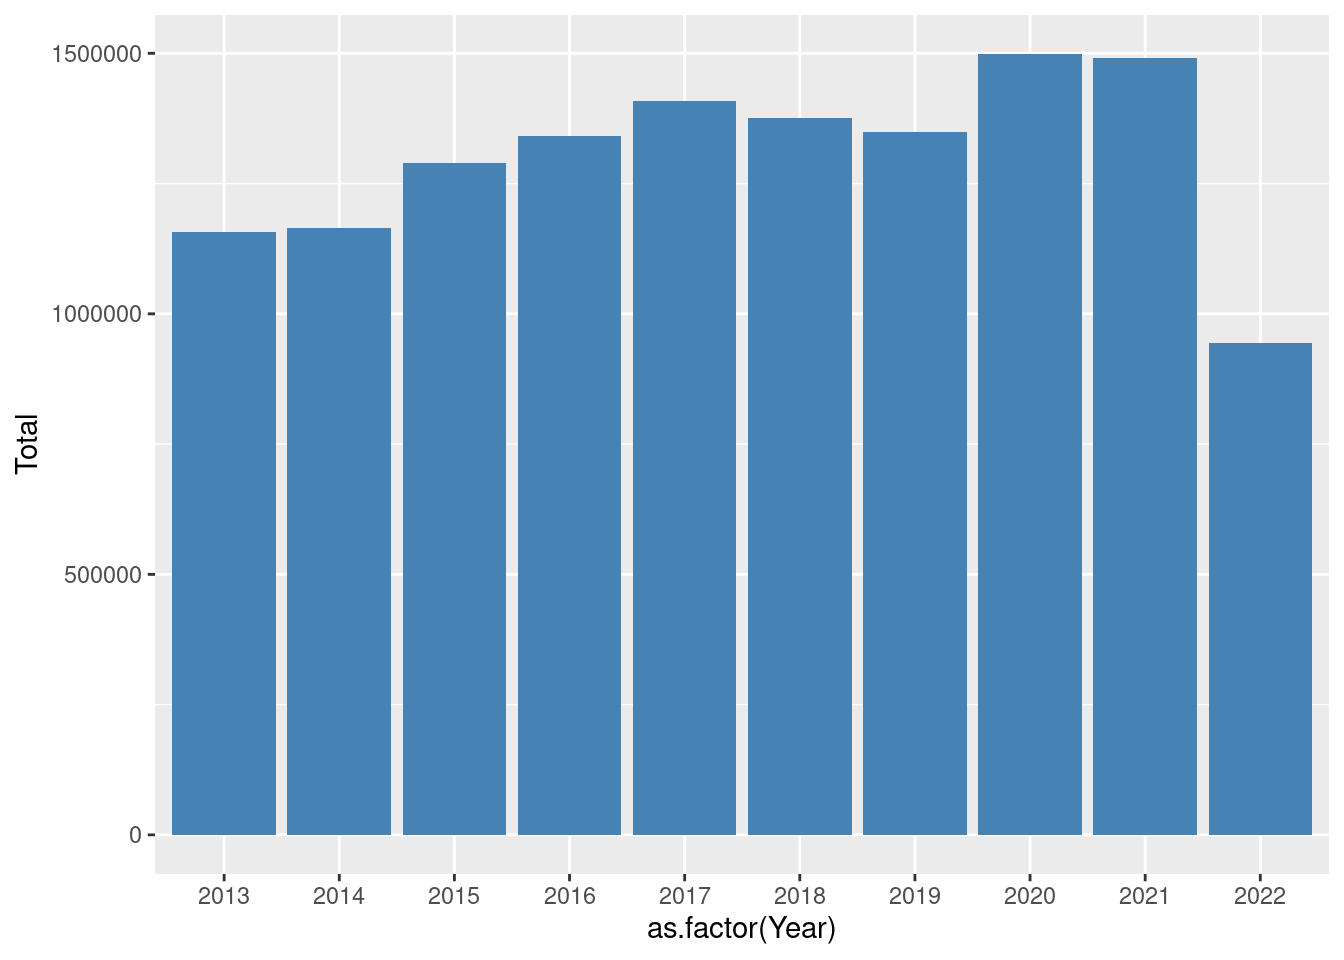
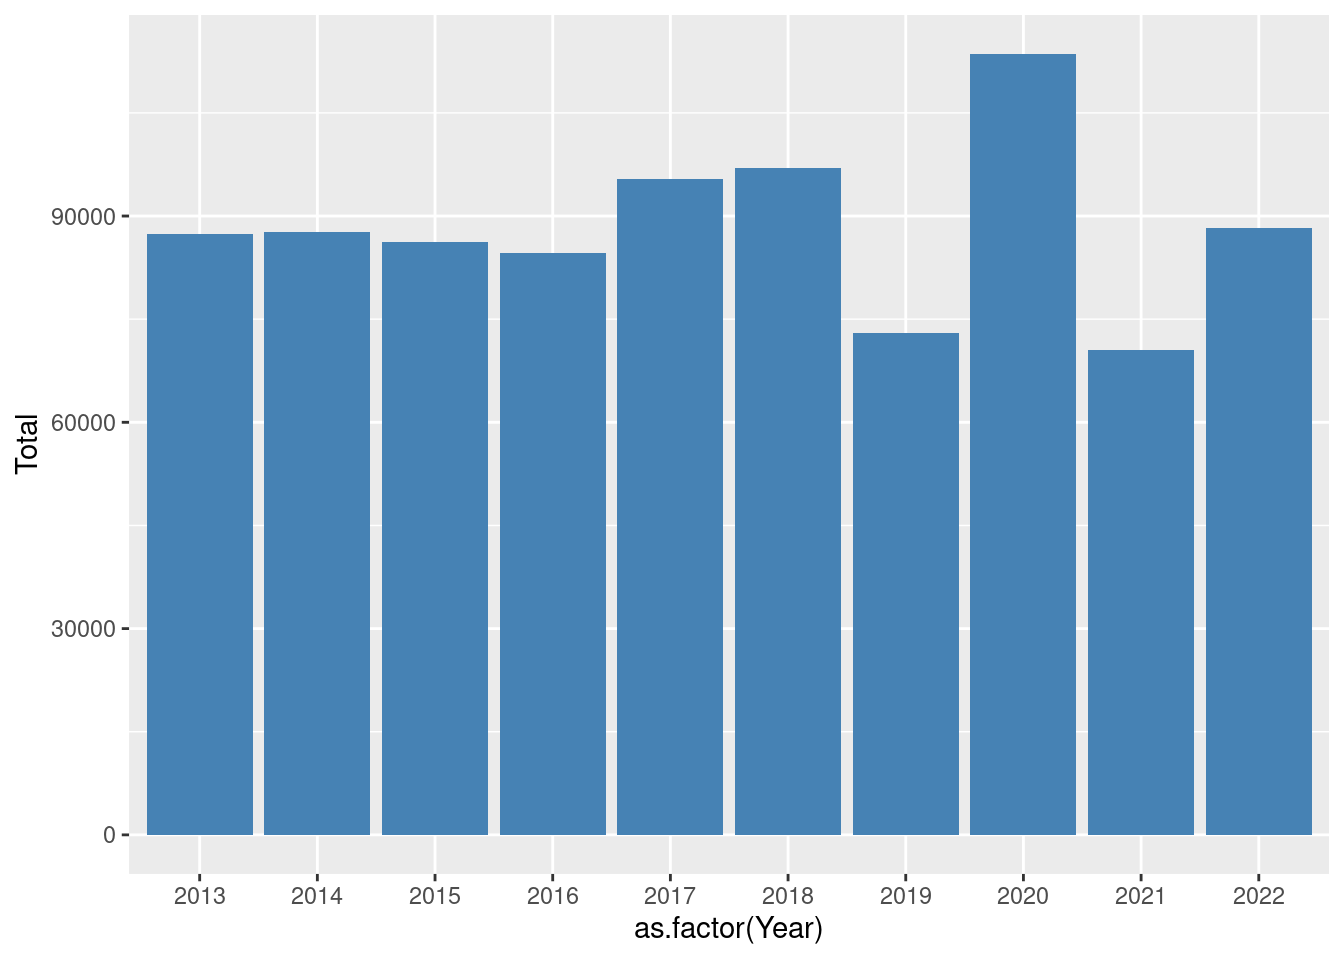
update

diff --git a/docs/ExploratoryDataAnalysis.html b/docs/ExploratoryDataAnalysis.html
@@ -259,7 +259,12 @@ code span.wa { color: #60a0b0; font-weight: bold; font-style: italic; } /* Warni
 <span id="cb2-5"><a href="#cb2-5" aria-hidden="true" tabindex="-1"></a></span>
 <span id="cb2-6"><a href="#cb2-6" aria-hidden="true" tabindex="-1"></a>monthly_usd_to_try <span class="ot">&lt;-</span> <span class="fu">read_excel</span>(<span class="st">"data/monthly_usd_to_try.xls"</span>)</span>
 <span id="cb2-7"><a href="#cb2-7" aria-hidden="true" tabindex="-1"></a>monthly_usd_to_try<span class="sc">$</span>month <span class="ot">&lt;-</span> <span class="fu">as.Date</span>(monthly_usd_to_try<span class="sc">$</span>month)</span>
-<span id="cb2-8"><a href="#cb2-8" aria-hidden="true" tabindex="-1"></a>monthly_usd_to_try<span class="sc">$</span>month <span class="ot">&lt;-</span> <span class="fu">format</span>(monthly_usd_to_try<span class="sc">$</span>month,<span class="st">"%Y-%b-%d"</span>)</span></code><button title="Copy to Clipboard" class="code-copy-button"><i class="bi"></i></button></pre></div>
+<span id="cb2-8"><a href="#cb2-8" aria-hidden="true" tabindex="-1"></a>monthly_usd_to_try<span class="sc">$</span>month <span class="ot">&lt;-</span> <span class="fu">format</span>(monthly_usd_to_try<span class="sc">$</span>month,<span class="st">"%Y-%b-%d"</span>)</span>
+<span id="cb2-9"><a href="#cb2-9" aria-hidden="true" tabindex="-1"></a></span>
+<span id="cb2-10"><a href="#cb2-10" aria-hidden="true" tabindex="-1"></a>PATH <span class="ot">&lt;-</span> <span class="st">"data/House Sales by Provinces.xls"</span></span>
+<span id="cb2-11"><a href="#cb2-11" aria-hidden="true" tabindex="-1"></a>house_sales_by_provinces <span class="ot">&lt;-</span> <span class="fu">read_excel</span>(PATH, <span class="at">range =</span> <span class="fu">cell_rows</span>(<span class="dv">14</span><span class="sc">:</span><span class="dv">129</span>), <span class="at">col_names =</span> <span class="fu">names</span>(<span class="fu">read_excel</span>(PATH, <span class="at">skip =</span> <span class="dv">2</span>))) </span>
+<span id="cb2-12"><a href="#cb2-12" aria-hidden="true" tabindex="-1"></a></span>
+<span id="cb2-13"><a href="#cb2-13" aria-hidden="true" tabindex="-1"></a>total_sales_by_year <span class="ot">&lt;-</span> <span class="fu">aggregate</span>(house_sales_by_provinces[<span class="dv">3</span>], house_sales_by_provinces[<span class="dv">1</span>], <span class="at">FUN=</span>sum)</span></code><button title="Copy to Clipboard" class="code-copy-button"><i class="bi"></i></button></pre></div>
 </div>
 <div class="cell">
 <div class="sourceCode cell-code" id="cb3"><pre class="sourceCode r code-with-copy"><code class="sourceCode r"><span id="cb3-1"><a href="#cb3-1" aria-hidden="true" tabindex="-1"></a><span class="fu">ggplot</span>(House_sales_to_foreigners_year, <span class="fu">aes</span>(Year)) <span class="sc">+</span> </span>
@@ -317,30 +322,25 @@ code span.wa { color: #60a0b0; font-weight: bold; font-style: italic; } /* Warni
 </div>
 </div>
 <div class="cell">
-<div class="sourceCode cell-code" id="cb15"><pre class="sourceCode r code-with-copy"><code class="sourceCode r"><span id="cb15-1"><a href="#cb15-1" aria-hidden="true" tabindex="-1"></a>PATH <span class="ot">&lt;-</span> <span class="st">"data/House Sales by Provinces.xls"</span></span>
-<span id="cb15-2"><a href="#cb15-2" aria-hidden="true" tabindex="-1"></a></span>
-<span id="cb15-3"><a href="#cb15-3" aria-hidden="true" tabindex="-1"></a>house_sales_by_provinces <span class="ot">&lt;-</span> <span class="fu">read_excel</span>(PATH, <span class="at">range =</span> <span class="fu">cell_rows</span>(<span class="dv">14</span><span class="sc">:</span><span class="dv">129</span>), <span class="at">col_names =</span> <span class="fu">names</span>(<span class="fu">read_excel</span>(PATH, <span class="at">skip =</span> <span class="dv">2</span>))) </span>
-<span id="cb15-4"><a href="#cb15-4" aria-hidden="true" tabindex="-1"></a></span>
-<span id="cb15-5"><a href="#cb15-5" aria-hidden="true" tabindex="-1"></a>house_sales_by_provinces  <span class="ot">&lt;-</span> house_sales_by_provinces  <span class="sc">%&gt;%</span></span>
-<span id="cb15-6"><a href="#cb15-6" aria-hidden="true" tabindex="-1"></a>    <span class="fu">fill</span>(<span class="fu">colnames</span>(house_sales_by_provinces[<span class="dv">1</span>]), <span class="at">.direction =</span> <span class="st">"downup"</span>)</span>
-<span id="cb15-7"><a href="#cb15-7" aria-hidden="true" tabindex="-1"></a></span>
-<span id="cb15-8"><a href="#cb15-8" aria-hidden="true" tabindex="-1"></a><span class="co"># Creating Time Series Object</span></span>
-<span id="cb15-9"><a href="#cb15-9" aria-hidden="true" tabindex="-1"></a>total_hs_ts <span class="ot">&lt;-</span> <span class="fu">ts</span>(house_sales_by_provinces[<span class="dv">3</span>],<span class="at">start=</span><span class="fu">c</span>(<span class="dv">2013</span>,<span class="dv">1</span>),<span class="at">frequency=</span><span class="dv">12</span>)</span>
-<span id="cb15-10"><a href="#cb15-10" aria-hidden="true" tabindex="-1"></a></span>
-<span id="cb15-11"><a href="#cb15-11" aria-hidden="true" tabindex="-1"></a><span class="fu">options</span>(<span class="at">repr.plot.width=</span><span class="dv">21</span>, <span class="at">repr.plot.height=</span><span class="dv">8</span>)</span>
-<span id="cb15-12"><a href="#cb15-12" aria-hidden="true" tabindex="-1"></a><span class="fu">plot</span>(total_hs_ts)</span></code><button title="Copy to Clipboard" class="code-copy-button"><i class="bi"></i></button></pre></div>
+<div class="sourceCode cell-code" id="cb15"><pre class="sourceCode r code-with-copy"><code class="sourceCode r"><span id="cb15-1"><a href="#cb15-1" aria-hidden="true" tabindex="-1"></a>house_sales_by_provinces  <span class="ot">&lt;-</span> house_sales_by_provinces  <span class="sc">%&gt;%</span></span>
+<span id="cb15-2"><a href="#cb15-2" aria-hidden="true" tabindex="-1"></a>    <span class="fu">fill</span>(<span class="fu">colnames</span>(house_sales_by_provinces[<span class="dv">1</span>]), <span class="at">.direction =</span> <span class="st">"downup"</span>)</span>
+<span id="cb15-3"><a href="#cb15-3" aria-hidden="true" tabindex="-1"></a></span>
+<span id="cb15-4"><a href="#cb15-4" aria-hidden="true" tabindex="-1"></a><span class="co"># Creating Time Series Object for House Sales by Proviences</span></span>
+<span id="cb15-5"><a href="#cb15-5" aria-hidden="true" tabindex="-1"></a>total_hs_ts <span class="ot">&lt;-</span> <span class="fu">ts</span>(house_sales_by_provinces[<span class="dv">3</span>],<span class="at">start=</span><span class="fu">c</span>(<span class="dv">2013</span>,<span class="dv">1</span>),<span class="at">frequency=</span><span class="dv">12</span>)</span>
+<span id="cb15-6"><a href="#cb15-6" aria-hidden="true" tabindex="-1"></a></span>
+<span id="cb15-7"><a href="#cb15-7" aria-hidden="true" tabindex="-1"></a><span class="fu">options</span>(<span class="at">repr.plot.width=</span><span class="dv">21</span>, <span class="at">repr.plot.height=</span><span class="dv">8</span>)</span>
+<span id="cb15-8"><a href="#cb15-8" aria-hidden="true" tabindex="-1"></a><span class="fu">plot</span>(total_hs_ts)</span></code><button title="Copy to Clipboard" class="code-copy-button"><i class="bi"></i></button></pre></div>
 <div class="cell-output-display">
 <p><img src="ExploratoryDataAnalysis_files/figure-html/unnamed-chunk-4-1.png" class="img-fluid" width="672"></p>
 </div>
 </div>
 <div class="cell">
-<div class="sourceCode cell-code" id="cb16"><pre class="sourceCode r code-with-copy"><code class="sourceCode r"><span id="cb16-1"><a href="#cb16-1" aria-hidden="true" tabindex="-1"></a>total_sales_by_year <span class="ot">&lt;-</span> <span class="fu">aggregate</span>(house_sales_by_provinces[<span class="dv">3</span>], house_sales_by_provinces[<span class="dv">1</span>], <span class="at">FUN=</span>sum)</span>
-<span id="cb16-2"><a href="#cb16-2" aria-hidden="true" tabindex="-1"></a><span class="fu">colnames</span>(total_sales_by_year) <span class="ot">&lt;-</span> <span class="fu">c</span>(<span class="st">'Year'</span>,<span class="st">'Total'</span>)</span>
-<span id="cb16-3"><a href="#cb16-3" aria-hidden="true" tabindex="-1"></a></span>
-<span id="cb16-4"><a href="#cb16-4" aria-hidden="true" tabindex="-1"></a><span class="co"># Total Sales by Year</span></span>
-<span id="cb16-5"><a href="#cb16-5" aria-hidden="true" tabindex="-1"></a><span class="fu">options</span>(<span class="at">repr.plot.width=</span><span class="dv">18</span>, <span class="at">repr.plot.height=</span><span class="dv">8</span>)</span>
-<span id="cb16-6"><a href="#cb16-6" aria-hidden="true" tabindex="-1"></a><span class="fu">ggplot</span>(<span class="at">data=</span>total_sales_by_year, <span class="fu">aes</span>(<span class="at">x=</span><span class="fu">as.factor</span>(Year), <span class="at">y=</span>Total)) <span class="sc">+</span></span>
-<span id="cb16-7"><a href="#cb16-7" aria-hidden="true" tabindex="-1"></a>    <span class="fu">geom_bar</span>(<span class="at">stat=</span><span class="st">"identity"</span>, <span class="at">fill=</span><span class="st">"steelblue"</span>)</span></code><button title="Copy to Clipboard" class="code-copy-button"><i class="bi"></i></button></pre></div>
+<div class="sourceCode cell-code" id="cb16"><pre class="sourceCode r code-with-copy"><code class="sourceCode r"><span id="cb16-1"><a href="#cb16-1" aria-hidden="true" tabindex="-1"></a><span class="fu">colnames</span>(total_sales_by_year) <span class="ot">&lt;-</span> <span class="fu">c</span>(<span class="st">'Year'</span>,<span class="st">'Total'</span>)</span>
+<span id="cb16-2"><a href="#cb16-2" aria-hidden="true" tabindex="-1"></a></span>
+<span id="cb16-3"><a href="#cb16-3" aria-hidden="true" tabindex="-1"></a><span class="co"># Total Sales by Year</span></span>
+<span id="cb16-4"><a href="#cb16-4" aria-hidden="true" tabindex="-1"></a><span class="fu">options</span>(<span class="at">repr.plot.width=</span><span class="dv">18</span>, <span class="at">repr.plot.height=</span><span class="dv">8</span>)</span>
+<span id="cb16-5"><a href="#cb16-5" aria-hidden="true" tabindex="-1"></a><span class="fu">ggplot</span>(<span class="at">data=</span>total_sales_by_year, <span class="fu">aes</span>(<span class="at">x=</span><span class="fu">as.factor</span>(Year), <span class="at">y=</span>Total)) <span class="sc">+</span></span>
+<span id="cb16-6"><a href="#cb16-6" aria-hidden="true" tabindex="-1"></a>    <span class="fu">geom_bar</span>(<span class="at">stat=</span><span class="st">"identity"</span>, <span class="at">fill=</span><span class="st">"steelblue"</span>)</span></code><button title="Copy to Clipboard" class="code-copy-button"><i class="bi"></i></button></pre></div>
 <div class="cell-output-display">
 <p><img src="ExploratoryDataAnalysis_files/figure-html/unnamed-chunk-5-1.png" class="img-fluid" width="672"></p>
 </div>
@@ -354,9 +354,9 @@ code span.wa { color: #60a0b0; font-weight: bold; font-style: italic; } /* Warni
 <span id="cb17-6"><a href="#cb17-6" aria-hidden="true" tabindex="-1"></a></span>
 <span id="cb17-7"><a href="#cb17-7" aria-hidden="true" tabindex="-1"></a><span class="co"># Annual average house sales by provinces (except 2022)</span></span>
 <span id="cb17-8"><a href="#cb17-8" aria-hidden="true" tabindex="-1"></a></span>
-<span id="cb17-9"><a href="#cb17-9" aria-hidden="true" tabindex="-1"></a><span class="fu">barplot</span>(<span class="fu">unlist</span>(annual_avg_hs), <span class="at">col =</span> <span class="fu">rainbow</span>(<span class="dv">100</span>), <span class="at">las=</span><span class="dv">2</span>, <span class="at">cex.names=</span>.<span class="dv">9</span>, <span class="at">horiz =</span> <span class="cn">TRUE</span>)</span></code><button title="Copy to Clipboard" class="code-copy-button"><i class="bi"></i></button></pre></div>
+<span id="cb17-9"><a href="#cb17-9" aria-hidden="true" tabindex="-1"></a><span class="fu">barplot</span>(<span class="fu">unlist</span>(annual_avg_hs), <span class="at">col =</span> <span class="fu">rainbow</span>(<span class="dv">100</span>), <span class="at">las=</span><span class="dv">2</span>, <span class="at">cex.names=</span>.<span class="dv">6</span>, <span class="at">horiz =</span> <span class="cn">TRUE</span>)</span></code><button title="Copy to Clipboard" class="code-copy-button"><i class="bi"></i></button></pre></div>
 <div class="cell-output-display">
-<p><img src="ExploratoryDataAnalysis_files/figure-html/unnamed-chunk-6-1.png" class="img-fluid" width="672"></p>
+<p><img src="ExploratoryDataAnalysis_files/figure-html/unnamed-chunk-6-1.png" class="img-fluid" width="768"></p>
 </div>
 </div>
 
